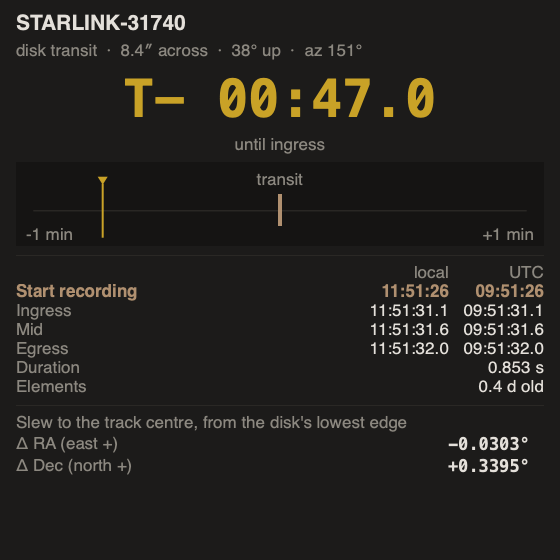
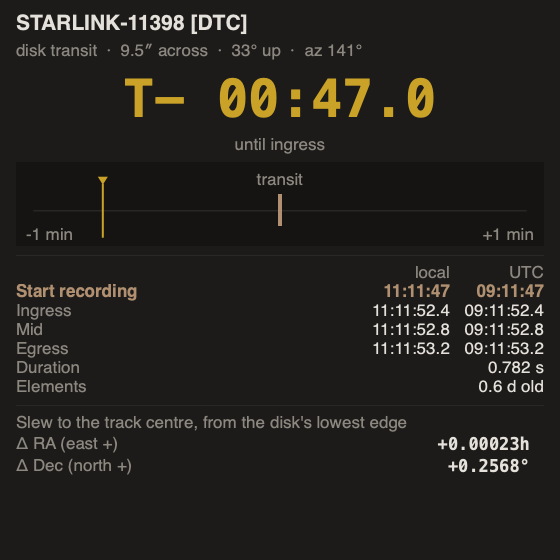
Report the RA slew in hours, the unit it is written in
Right ascension is conventionally hours, not degrees, so the observing window
now gives the slew as decimal hours and the declination stays in degrees.

That makes the returned pair two different units, which is how they get read
the wrong way round, so it is no longer a bare tuple: pointing_offset returns
an Offset with ra_hours and dec_deg named.

Five decimals of an hour is 0.54 arcseconds of right ascension, against 0.36
for four decimals of a degree — so the extra place keeps the resolution the
change would otherwise have cost, and a test pins it.

diff --git a/tests/test_mount.py b/tests/test_mount.py
@@ -134,32 +134,45 @@ RADIUS = 960.0  # a round solar radius, in arcseconds
 
 def test_a_centred_track_is_one_radius_above_the_low_limb():
     offset = pointing_offset(0.0, 0.0, RADIUS, 0.0, north_is_down=False)
-    assert offset == (pytest.approx(0.0), pytest.approx(RADIUS / 3600.0))
+    assert offset.ra_hours == pytest.approx(0.0)
+    assert offset.dec_deg == pytest.approx(RADIUS / 3600.0)
 
 
 def test_turning_the_view_over_moves_the_reference_to_the_other_limb():
     # The lowest thing on screen is now the north edge, so the slew is southwards.
-    _, delta_dec = pointing_offset(0.0, 0.0, RADIUS, 0.0, north_is_down=True)
-    assert delta_dec == pytest.approx(-RADIUS / 3600.0)
+    offset = pointing_offset(0.0, 0.0, RADIUS, 0.0, north_is_down=True)
+    assert offset.dec_deg == pytest.approx(-RADIUS / 3600.0)
 
 
 def test_a_track_across_the_top_of_the_disk_is_two_radii_up():
     # Position angle 0 is due north, so this grazes the far limb.
-    _, delta_dec = pointing_offset(RADIUS, 0.0, RADIUS, 0.0, north_is_down=False)
-    assert delta_dec == pytest.approx(2 * RADIUS / 3600.0)
+    offset = pointing_offset(RADIUS, 0.0, RADIUS, 0.0, north_is_down=False)
+    assert offset.dec_deg == pytest.approx(2 * RADIUS / 3600.0)
 
 
 def test_the_east_west_offset_does_not_care_which_way_up_the_view_is():
     # The lowest point of a disk is directly below its centre either way.
     up = pointing_offset(500.0, 90.0, RADIUS, 20.0, north_is_down=False)
     down = pointing_offset(500.0, 90.0, RADIUS, 20.0, north_is_down=True)
-    assert up[0] == pytest.approx(down[0])
+    assert up.ra_hours == pytest.approx(down.ra_hours)
 
 
 def test_position_angle_ninety_is_due_east():
-    delta_ra, delta_dec = pointing_offset(600.0, 90.0, RADIUS, 0.0, north_is_down=False)
-    assert delta_ra > 0  # east is increasing right ascension
-    assert delta_dec == pytest.approx(RADIUS / 3600.0)  # no north-south component
+    offset = pointing_offset(600.0, 90.0, RADIUS, 0.0, north_is_down=False)
+    assert offset.ra_hours > 0  # east is increasing right ascension
+    assert offset.dec_deg == pytest.approx(RADIUS / 3600.0)  # no north-south part
+
+
+def test_right_ascension_comes_back_in_hours():
+    """Fifteen degrees of right ascension is one hour of it.
+
+    The pair carries two different units, which is exactly why the fields are
+    named rather than returned as a bare tuple.
+    """
+    offset = pointing_offset(600.0, 90.0, RADIUS, 0.0, north_is_down=False)
+    # 600" due east at declination zero is 40 seconds of right ascension.
+    assert offset.ra_hours * 3600.0 == pytest.approx(40.0)
+    assert offset.ra_hours == pytest.approx((600.0 / 3600.0) / 15.0)
 
 
 def test_the_ra_offset_carries_the_cosine_of_the_declination():
@@ -170,10 +183,10 @@ def test_the_ra_offset_carries_the_cosine_of_the_declination():
     """
     import math
 
-    on_sky = 600.0 / 3600.0
+    on_sky_hours = (600.0 / 3600.0) / 15.0
     for dec in (0.0, 23.4, -23.4):
-        delta_ra, _ = pointing_offset(600.0, 90.0, RADIUS, dec, north_is_down=False)
-        assert delta_ra == pytest.approx(on_sky / math.cos(math.radians(dec)))
+        offset = pointing_offset(600.0, 90.0, RADIUS, dec, north_is_down=False)
+        assert offset.ra_hours == pytest.approx(on_sky_hours / math.cos(math.radians(dec)))
 
 
 def test_near_the_pole_there_is_no_answer_to_give():

diff --git a/sattransit/mount.py b/sattransit/mount.py
@@ -17,6 +17,7 @@ in the same place to within a degree.
 from __future__ import annotations
 
 import math
+from dataclasses import dataclass
 
 SIDES = ("any", "east", "west")
 
@@ -58,15 +59,28 @@ def declination_deg(altitude_deg: float, azimuth_deg: float, latitude_deg: float
     return math.degrees(math.asin(max(-1.0, min(1.0, sine))))
 
 
+@dataclass(frozen=True)
+class Offset:
+    """Where to move, from one point on the sky to another.
+
+    Right ascension in hours and declination in degrees — the units each is
+    conventionally written in. Named rather than returned as a bare pair,
+    because a tuple of two different units is asking to be read the wrong way
+    round.
+    """
+
+    ra_hours: float
+    dec_deg: float
+
+
 def pointing_offset(
     separation_arcsec: float,
     position_angle_deg: float,
     radius_arcsec: float,
     dec_deg: float,
     north_is_down: bool,
-) -> tuple[float, float] | None:
-    """Offset in RA and Dec, in degrees, from the disk's lowest drawn point to
-    the track's mid-point.
+) -> Offset | None:
+    """Offset from the disk's lowest drawn point to the track's mid-point.
 
     At a long focal length the disk does not fit in the frame, so the limb is
     the only landmark there is to start from: put the bottom edge of the disk
@@ -77,7 +91,7 @@ def pointing_offset(
 
     The RA offset is a difference in right ascension, not an angle on the sky:
     it carries the 1/cos(dec) factor already, so it can be added straight to a
-    right ascension.
+    right ascension, in the hours such a coordinate is written in.
     """
     if abs(dec_deg) > 89.9:  # cos(dec) vanishes and RA stops meaning anything
         return None
@@ -91,8 +105,9 @@ def pointing_offset(
     low_limb_north = radius_arcsec if north_is_down else -radius_arcsec
 
     delta_dec = (north - low_limb_north) / 3600.0
+    # Degrees of RA first, then hours: 15 degrees of right ascension is an hour.
     delta_ra = east / 3600.0 / math.cos(math.radians(dec_deg))
-    return delta_ra, delta_dec
+    return Offset(ra_hours=delta_ra / 15.0, dec_deg=delta_dec)
 
 
 def meridian_side(altitude_deg: float, azimuth_deg: float, latitude_deg: float) -> str:

diff --git a/sattransit/observe.py b/sattransit/observe.py
@@ -406,7 +406,6 @@ class ObservingWindow(QWidget):
         )
         if offset is None:
             return None
-        delta_ra, delta_dec = offset
 
         grid = QGridLayout()
         grid.setHorizontalSpacing(14)
@@ -419,23 +418,28 @@ class ObservingWindow(QWidget):
 
         # The sign convention goes in the label, not a tooltip: nobody hovers
         # while copying two numbers into a mount at four in the morning.
-        for row, (name, value, note) in enumerate(
+        #
+        # Five decimals of an hour is 0.54" of right ascension, and four of a
+        # degree is 0.36" — finer either way than a mount will actually land.
+        rows = (
             (
-                (
-                    "\u0394 RA (east +)",
-                    delta_ra,
-                    f"{delta_ra * 60.0:+.2f}\u2032 of right ascension, "
-                    "already divided by cos(dec) so it can be added to an RA",
-                ),
-                ("\u0394 Dec (north +)", delta_dec, f"{delta_dec * 60.0:+.2f}\u2032 on the sky"),
+                "\u0394 RA (east +)",
+                f"{offset.ra_hours:+.5f}h",
+                f"{offset.ra_hours * 3600.0:+.2f} seconds of right ascension, "
+                "already divided by cos(dec) so it can be added to an RA",
             ),
-            start=1,
-        ):
+            (
+                "\u0394 Dec (north +)",
+                f"{offset.dec_deg:+.4f}\u00b0",
+                f"{offset.dec_deg * 60.0:+.2f}\u2032 on the sky",
+            ),
+        )
+        for row, (name, text, note) in enumerate(rows, start=1):
             label = QLabel(name)
             label.setObjectName("sname")
             # Fixed pitch so the two line up on the decimal point, and signed
             # always: a missing "+" reads as a typo when you are copying it out.
-            shown = QLabel(f"{value:+.4f}\u00b0")
+            shown = QLabel(text)
             shown.setObjectName("sval")
             shown.setFont(countdown_font(max(self.font().pointSize(), 9)))
             shown.setAlignment(Qt.AlignmentFlag.AlignRight)

diff --git a/tests/test_observe.py b/tests/test_observe.py
@@ -406,3 +406,25 @@ def test_an_event_without_geometry_does_not_crash_the_window(app):
     assert _offset_rows(window) == {}
     assert not window.grab().isNull()
     window.close()
+
+
+def test_right_ascension_is_shown_in_hours_and_declination_in_degrees(app):
+    # The two carry different units, so each value says which it is.
+    window = ObservingWindow(
+        THEMES["dark"], apply_theme(app, "dark"), TRANSIT, latitude_deg=DARMSTADT
+    )
+    rows = _offset_rows(window)
+    assert rows["Δ RA (east +)"].endswith("h")
+    assert rows["Δ Dec (north +)"].endswith("°")
+    window.close()
+
+
+def test_the_hour_offset_keeps_enough_decimals_to_be_worth_having(app):
+    # An hour of right ascension is 15 degrees, so a value in hours needs more
+    # decimal places than one in degrees to say the same thing.
+    window = ObservingWindow(
+        THEMES["dark"], apply_theme(app, "dark"), TRANSIT, latitude_deg=DARMSTADT
+    )
+    hours = _offset_rows(window)["Δ RA (east +)"]
+    assert len(hours.split(".")[1].rstrip("h")) >= 5
+    window.close()

diff --git a/README.md b/README.md
@@ -312,20 +312,24 @@ the closest approach instead, and say so.
 **The slew offsets** at the bottom are for a long focal length, where the disk
 does not fit in the frame and there is nothing to aim by but an edge of it. Put
 the lowest edge of the disk on the sensor, apply the two offsets, and the middle
-of the chord is centred. They are plain decimal degrees, selectable, for typing
-or pasting into something like SharpCap.
+of the chord is centred. Both are plain decimal numbers, selectable, for typing
+or pasting into something like SharpCap — each in the unit its coordinate is
+conventionally written in:
 
-| | |
-| --- | --- |
-| `Δ RA (east +)` | a difference in **right ascension**, not an angle on the sky: the 1/cos(dec) factor is already in it, so it can be added straight to an RA |
-| `Δ Dec (north +)` | an angle on the sky, north positive |
+| | | |
+| --- | --- | --- |
+| `Δ RA (east +)` | decimal **hours** | a difference in right ascension, not an angle on the sky: the 1/cos(dec) factor is already in it, so it can be added straight to an RA |
+| `Δ Dec (north +)` | decimal **degrees** | an angle on the sky, north positive |
+
+Five decimals of an hour is 0.54″ of right ascension and four of a degree is
+0.36″ — finer either way than a mount will actually land.
 
 "Lowest" means lowest *as drawn* — the flips and the meridian rotation are
 already in it — so the disk view, the camera and these numbers all agree about
 which edge to start from. Turn the view over and the reference moves to the
 other limb, which flips the sign of `Δ Dec`; `Δ RA` does not change, because the
 lowest point of a disk is directly below its centre either way. Hovering a value
-shows it in arcminutes.
+shows it in seconds of right ascension, or arcminutes on the sky.
 
 The offsets need the observatory's latitude, which comes from the results file,
 so a file written before it was recorded simply shows no offsets.
